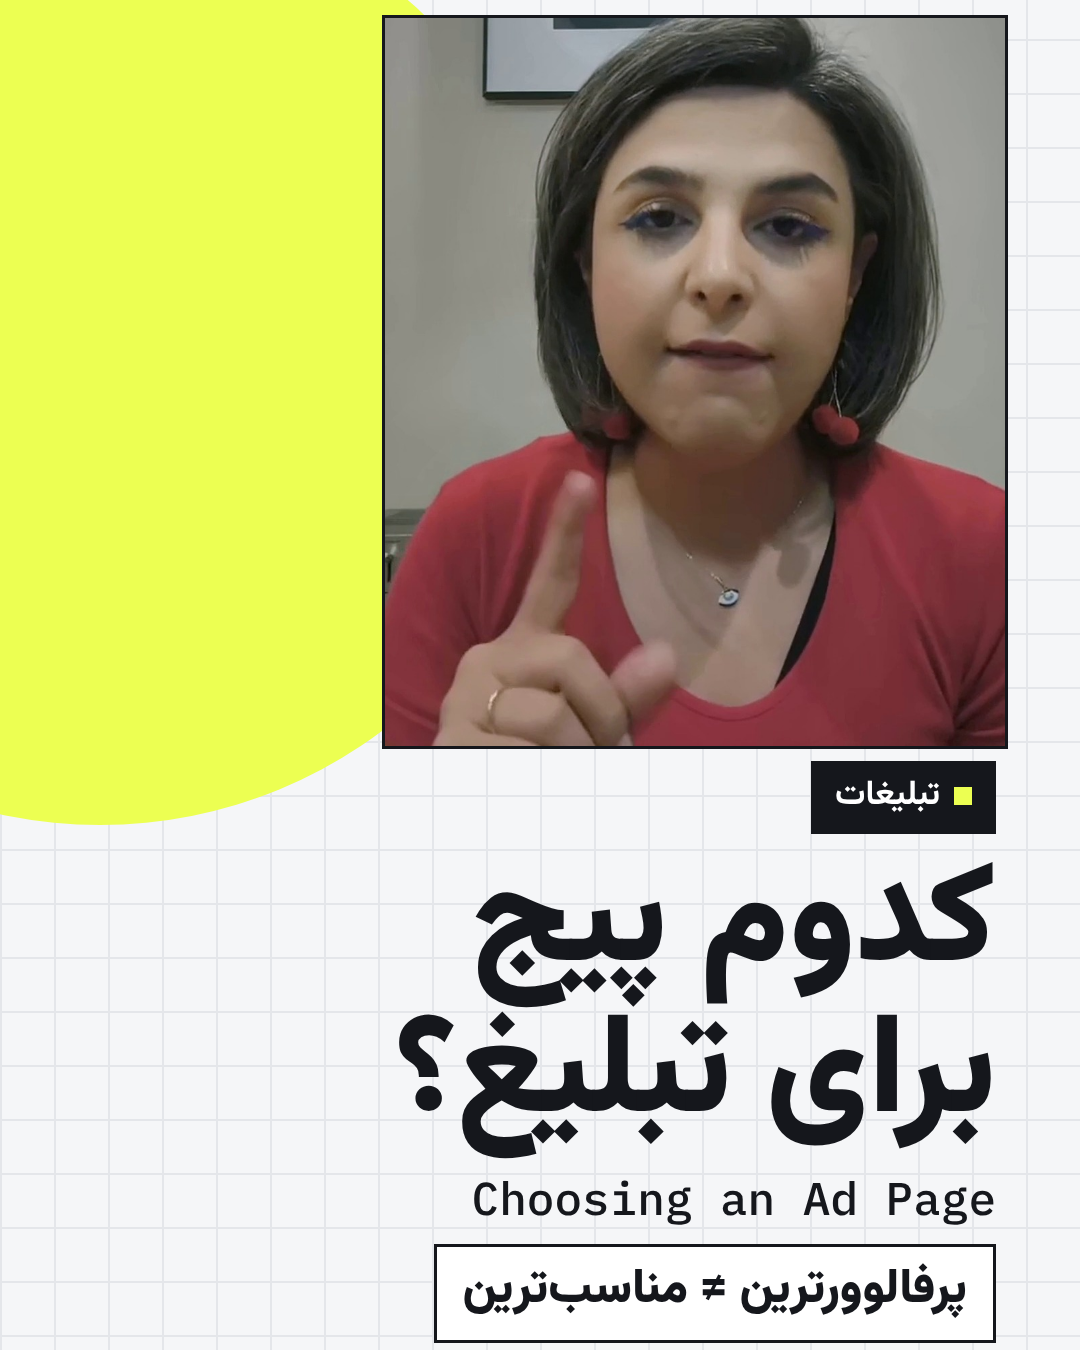
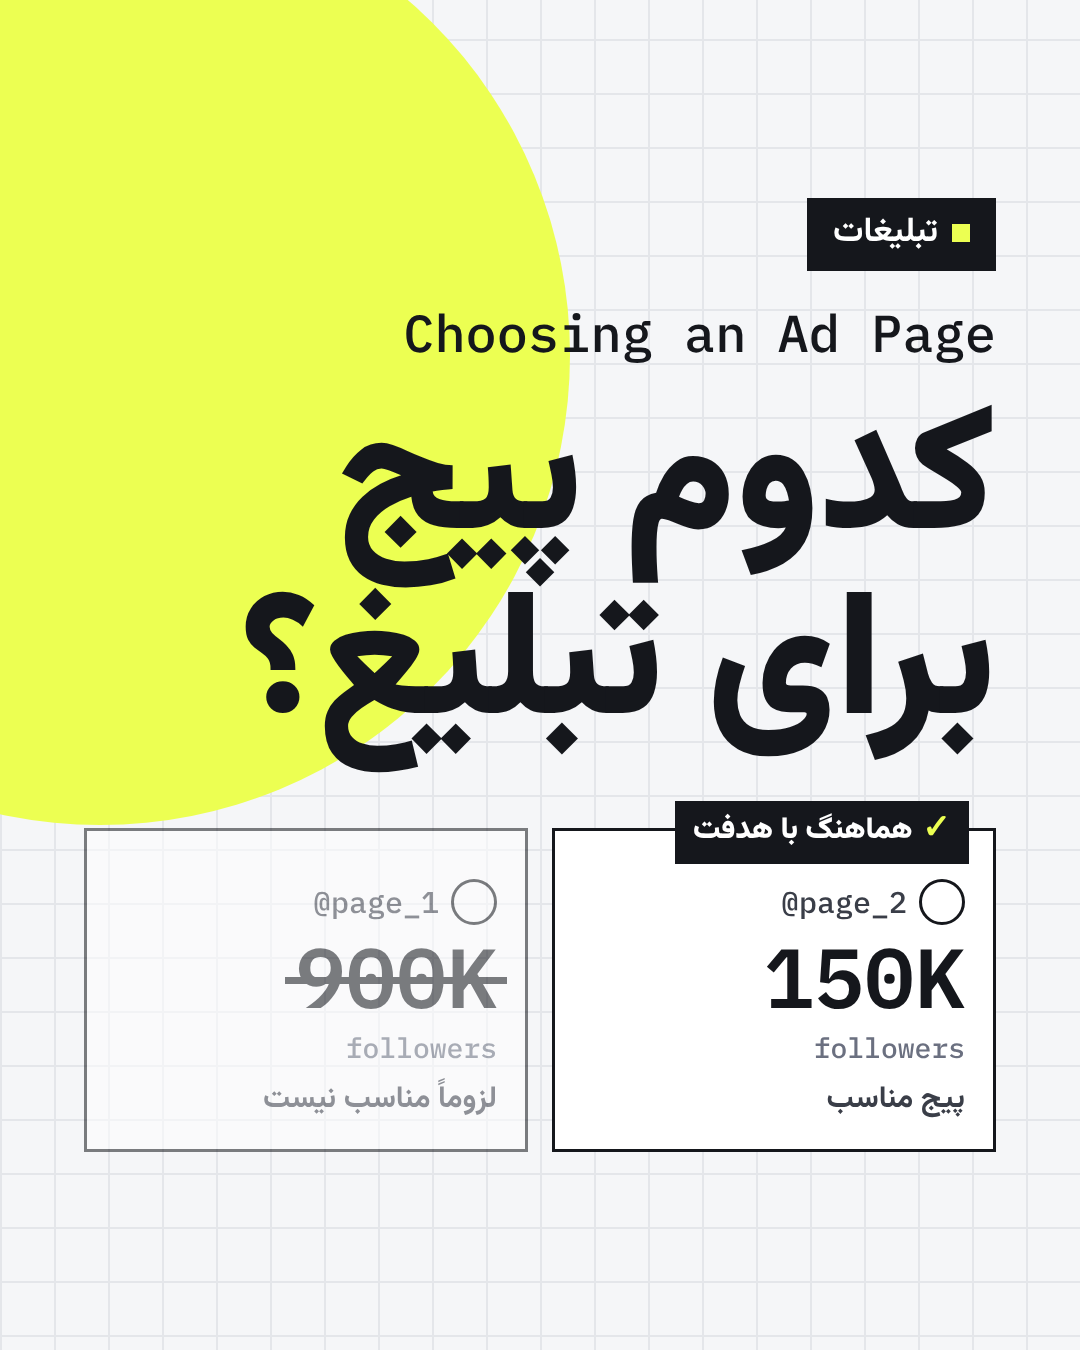
Ad-page reel v2: photo-free cover
Claude-Session: https://claude.ai/code/session_018rmXCaaGo7XoK57WrXwGq2

diff --git a/ad-page-reel-v2/cover.html b/ad-page-reel-v2/cover.html
@@ -3,40 +3,62 @@
 <head>
 <meta charset="utf-8">
 <title>Ad Page Reel Cover</title>
-<!-- Reels cover 1080x1920 (ruby.explains ReelsCover pattern + presenter photo).
-     All text sits inside the centred 4:5 grid crop (y 285–1635). Render: render-cover.mjs -->
+<!-- Reels cover 1080x1920, no photo: ruby.explains ReelsCover pattern (grid paper, yellow
+     circle bleeding off the left, ink tag, mono English term, giant Persian term) + a graphic
+     of the reel's point: the big page is crossed out, the goal-matched page is picked.
+     All text inside the centred 4:5 grid crop (y 285–1635). Render: node render-cover.mjs -->
 <style>
 @font-face{font-family:Vazirmatn;src:url(fonts/Vazirmatn-Bold.woff2) format('woff2');font-weight:700}
 @font-face{font-family:Vazirmatn;src:url(fonts/Vazirmatn-Black.woff2) format('woff2');font-weight:900}
 @font-face{font-family:'IBM Plex Mono';src:url(fonts/ibm-plex-mono-latin-500-normal.woff2) format('woff2');font-weight:500}
 @font-face{font-family:'IBM Plex Mono';src:url(fonts/ibm-plex-mono-latin-600-normal.woff2) format('woff2');font-weight:600}
-:root{--paper:#F5F6F8;--white:#fff;--ink:#15171C;--ink-3:#6B7080;--grid:#E4E6EA;--yellow:#ECFF52}
+:root{--paper:#F5F6F8;--white:#fff;--ink:#15171C;--ink-2:#3A3E48;--ink-3:#6B7080;--grid:#E4E6EA;--yellow:#ECFF52}
 html,body{margin:0}
 #c{position:relative;width:1080px;height:1920px;overflow:hidden;font-family:Vazirmatn,sans-serif;color:var(--ink);
   background-color:var(--paper);
   background-image:linear-gradient(var(--grid) 2px,transparent 2px),linear-gradient(90deg,var(--grid) 2px,transparent 2px);
   background-size:54px 54px}
 .circle{position:absolute;width:940px;height:940px;border-radius:50%;background:var(--yellow);top:170px;left:-370px}
-.photo{position:absolute;top:300px;right:72px;width:620px;height:728px;border:3px solid var(--ink);
-  background:url(cover-photo.jpg) center/cover no-repeat}
-.txt{position:absolute;top:1046px;right:84px;left:84px;display:flex;flex-direction:column;gap:16px}
-.chip{align-self:flex-start;display:flex;align-items:center;gap:14px;background:var(--ink);color:var(--white);font-weight:700;font-size:34px;padding:8px 24px 12px}
-.chip i{width:18px;height:18px;background:var(--yellow)}
-h1{margin:0;font-weight:900;font-size:140px;line-height:1.08;letter-spacing:-3px}
-.en{direction:ltr;text-align:right;font-family:'IBM Plex Mono',monospace;font-weight:500;font-size:46px;color:var(--ink)}
-.neq{align-self:flex-start;border:3px solid var(--ink);background:var(--white);font-weight:900;font-size:48px;padding:6px 26px 12px;letter-spacing:-1px}
+.crop{position:absolute;top:285px;left:0;right:0;height:1350px;padding:100px 84px;box-sizing:border-box;display:flex;flex-direction:column;justify-content:center;gap:28px}
+.tag{align-self:flex-start;display:flex;align-items:center;gap:14px;background:var(--ink);color:var(--white);font-weight:700;font-size:34px;padding:8px 26px 12px}
+.tag i{width:18px;height:18px;background:var(--yellow)}
+.en{direction:ltr;text-align:right;font-family:'IBM Plex Mono',monospace;font-weight:500;font-size:52px}
+h1{margin:0;font-weight:900;font-size:176px;line-height:1.05;letter-spacing:-4px}
+.pages{display:flex;gap:24px;margin-top:36px;direction:rtl}
+.pg{position:relative;flex:1;background:var(--white);border:3px solid var(--ink);padding:48px 28px 26px;display:flex;flex-direction:column;gap:10px}
+.pg .h{display:flex;align-items:center;gap:12px;direction:ltr;justify-content:flex-end;font-family:'IBM Plex Mono',monospace;font-weight:500;font-size:30px;color:var(--ink-2)}
+.pg .av{width:40px;height:40px;border-radius:50%;border:3px solid var(--ink)}
+.pg .n{direction:ltr;text-align:right;font-family:'IBM Plex Mono',monospace;font-weight:600;font-size:84px;line-height:1}
+.pg .n span{position:relative;display:inline-block}
+.pg .f{direction:ltr;text-align:right;font-family:'IBM Plex Mono',monospace;font-size:28px;font-weight:500;color:var(--ink-3)}
+.pg .l{font-weight:700;font-size:30px;color:var(--ink-2)}
+.pg.no{opacity:.55}
+.pg.no .strike{position:absolute;left:-10px;right:-10px;top:50%;height:7px;background:var(--ink)}
+.pick{position:absolute;top:-30px;right:24px;display:flex;align-items:center;gap:10px;background:var(--ink);color:var(--white);font-weight:900;font-size:30px;padding:6px 18px 10px}
+.pick b{color:var(--yellow);font-size:34px;line-height:1}
 .handle{position:absolute;bottom:64px;right:84px;direction:ltr;font-family:'IBM Plex Mono',monospace;font-size:32px}
 </style>
 </head>
 <body>
 <div id="c">
   <div class="circle"></div>
-  <div class="photo"></div>
-  <div class="txt">
-    <div class="chip"><i></i>تبلیغات</div>
-    <h1>کدوم پیج<br>برای تبلیغ؟</h1>
+  <div class="crop">
+    <div class="tag"><i></i>تبلیغات</div>
     <div class="en">Choosing an Ad Page</div>
-    <div class="neq">پرفالوورترین ≠ مناسبترین</div>
+    <h1>کدوم پیج<br>برای تبلیغ؟</h1>
+    <div class="pages">
+      <div class="pg">
+        <span class="pick"><b>✓</b>هماهنگ با هدفت</span>
+        <div class="h">@page_2<span class="av"></span></div>
+        <div class="n"><span>150K</span></div><div class="f">followers</div>
+        <div class="l">پیج مناسب</div>
+      </div>
+      <div class="pg no">
+        <div class="h">@page_1<span class="av"></span></div>
+        <div class="n"><span>900K<i class="strike"></i></span></div><div class="f">followers</div>
+        <div class="l">لزوماً مناسب نیست</div>
+      </div>
+    </div>
   </div>
   <div class="handle">ruby.explains</div>
 </div>

diff --git a/ad-page-reel-v2/timing.md b/ad-page-reel-v2/timing.md
@@ -23,4 +23,4 @@ edge 1630 px) because the face sits larger/lower here (chin up to ~1270 px when 
 | 71.35 | (end) | save CTA |
 
 Cover: `cover.html` → `node render-cover.mjs` → `cover.png` (1080×1920) and
-`cover-grid.png` (the 4:5 profile-grid crop). Photo = graded frame at 34.3 s.
+`cover-grid.png` (the 4:5 profile-grid crop). No photo: title + a two-page graphic (big page crossed out, goal-matched page picked).
